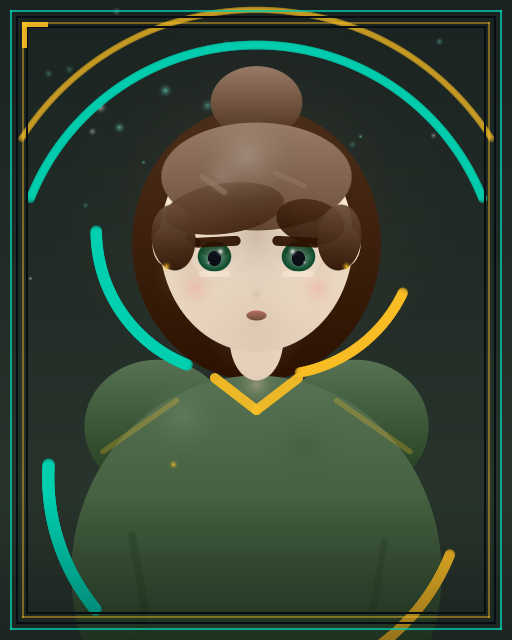
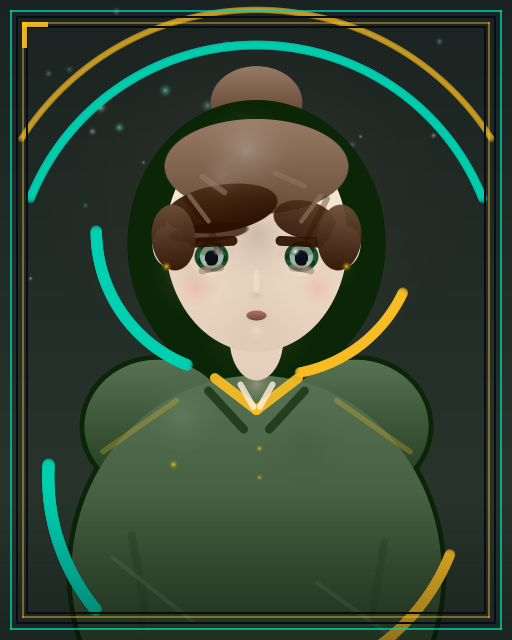
feat(echocraft): R22 肖像引擎插画级深化 - 五官种子化 + 伪影清零
- portrait-painter.js：轮廓描边底层、双层衣领(衬衫+翻领+扣子)、
  发丝簇渐变丝线、虹膜粗结构(5 辐条+亮环)、布纹斜线、鼻梁高光+下巴反光
- 五官几何七参数四档分布(eyeL/eyeDX/browW/browY/mouthW/noseY/jawW)，
  八卡各持独立几何签名（卡设 geo 字段透传 extensions）
- 违约清零：随机眼镜/耳饰废除（只认卡设 hint）、Seraphina 圆框眼镜
  写入卡设补充层、眼下卧蚕补丁删除、眉形弧化、full 刘海底影软 glow
- /web 封面同步；smoke 127/127

diff --git a/public/pixel-tavern/portrait-painter.js b/public/pixel-tavern/portrait-painter.js
@@ -133,7 +133,14 @@
             trim: hint.trim || (rand() < 0.5 ? TEAL : AMBER),
             eye: hint.eye || null,
             eyeTilt: rand() * 0.12 - 0.06,
+            /* 五官几何三档分布：眼长/眼距/眉粗/嘴宽/鼻长按种子落档 */
+            eyeL: [0.88, 1, 1.14][Math.floor(rand() * 3)],
+            eyeDX: [24, 26, 28][Math.floor(rand() * 3)],
             eyeSize: 0.9 + rand() * 0.25,
+            browW: [8, 10, 12][Math.floor(rand() * 3)],
+            browY: [-18, -16, -14][Math.floor(rand() * 3)],
+            mouthW: [5.6, 6.8, 8][Math.floor(rand() * 3)],
+            noseY: [32, 34, 36][Math.floor(rand() * 3)],
             faceW: 0.94 + rand() * 0.12,
             cat: char.category || 'quiet',
         };
@@ -228,6 +235,14 @@
         }
 
 
+        /* ===== 轮廓描边底层（暗色外扩，人物立起来） ===== */
+        const oc = shade(p.bg1, -84);
+        g.ell(headCX - S(62), shY + S(28), S(49), S(45), 0, oc, oc, 1);
+        g.ell(headCX + S(62), shY + S(28), S(49), S(45), 0, oc, oc, 1);
+        g.ell(headCX, shY + S(120), S(119), S(127), 0, oc, oc, 1);
+        g.ell(headCX, headCY + S(2), S(81), S(90), 0, oc, oc, 1);
+        g.ell(headCX, headCY, S(61), S(73), 0, oc, oc, 1);
+
         /* ===== 身体 ===== */
         g.ell(headCX - S(62), shY + S(28), S(46), S(42), 0, bodyTop, bodyBot, 1);
         g.ell(headCX + S(62), shY + S(28), S(46), S(42), 0, bodyTop, bodyBot, 1);
@@ -238,10 +253,21 @@
         g.glow(headCX + S(30), shY + S(40), S(24), shade(p.bg1, -40), 0.3);
         g.capsule(headCX - S(26), shY - S(2), headCX, shY + S(18), Math.max(1.4, S(2.8)), trimC, 0.92);
         g.capsule(headCX + S(26), shY - S(2), headCX, shY + S(18), Math.max(1.4, S(2.8)), trimC, 0.92);
+        /* 内衬衫领（白）+ 外套翻领（深） */
+        g.capsule(headCX - S(10), shY + S(2), headCX - S(2), shY + S(16), Math.max(0.8, S(1.6)), skinHi, 0.85);
+        g.capsule(headCX + S(10), shY + S(2), headCX + S(2), shY + S(16), Math.max(0.8, S(1.6)), skinHi, 0.85);
+        g.capsule(headCX - S(30), shY + S(6), headCX - S(8), shY + S(30), Math.max(1.2, S(2.4)), bodyBot, 0.9);
+        g.capsule(headCX + S(30), shY + S(6), headCX + S(8), shY + S(30), Math.max(1.2, S(2.4)), bodyBot, 0.9);
+        /* 扣子两枚 */
+        g.glow(headCX + S(2), shY + S(42), S(2.6), trimC, 0.85);
+        g.glow(headCX + S(2), shY + S(60), S(2.6), trimC, 0.7);
         g.glow(headCX, shY + S(2), S(15), skinDD, 0.5);
         g.capsule(headCX - S(96), shY + S(44), headCX - S(50), shY + S(12), Math.max(0.8, S(1.4)), trimC, 0.26);
         g.capsule(headCX + S(96), shY + S(44), headCX + S(50), shY + S(12), Math.max(0.8, S(1.4)), trimC, 0.26);
         g.glow(headCX - S(52), shY + S(52), S(3.4), trimC, 0.9);
+        /* 布纹斜线 */
+        g.polyline([[headCX - S(90), shY + S(110)], [headCX - S(40), shY + S(150)]], Math.max(0.6, S(1)), shade(p.bg1, 14), 0.3);
+        g.polyline([[headCX + S(38), shY + S(126)], [headCX + S(88), shY + S(162)]], Math.max(0.6, S(1)), shade(p.bg1, 14), 0.3);
 
         /* ===== 颈 ===== */
         g.ell(headCX, headCY + S(62), S(17), S(26), 0, skinC, skinD, 1);
@@ -259,34 +285,48 @@
         g.ell(headCX + S(56), headCY + S(4), S(9), S(13), 0.12, skinC, skinD, 1);
         g.glow(headCX - S(38), headCY + S(30), S(14), [244, 158, 158], 0.42);
         g.glow(headCX + S(38), headCY + S(30), S(14), [244, 158, 158], 0.42);
-        g.glow(headCX, headCY + S(34), S(6), skinDD, 0.42);
+        g.glow(headCX, headCY + S(p.noseY || 34), S(6), skinDD, 0.55);
+        /* 鼻梁高光 + 下巴反光 */
+        g.capsule(headCX, headCY + S((p.noseY || 34) - 14), headCX, headCY + S((p.noseY || 34) - 3), Math.max(0.7, S(1.5)), skinHi, 0.4);
+        g.glow(headCX, headCY + S(56), S(9), skinHi, 0.4);
 
         /* ===== 眼睛 ===== */
         const eyeY = headCY + S(10);
         for (const side of [-1, 1]) {
-            const ex = headCX + side * S(26);
+            const ex = headCX + side * S(p.eyeDX || 26);
+            const eL = S(10) * (p.eyeL || 1);
             g.glow(ex, eyeY, S(17), skinHi, 0.3);
             const es = S(p.eyeSize || 1);
             g.ell(ex, eyeY + side * S(p.eyeTilt || 0) * 8, S(15), S(11.5) * (p.eyeSize || 1), 0, skinD, skinC, 0.45);
-            g.ell(ex, eyeY + S(1), S(10.5) * (p.eyeSize || 1), S(7.6) * (p.eyeSize || 1), 0, [225, 230, 238], [198, 208, 220], 0.42);
+            /* 虹膜直填（无眼白底板）： radial 亮心 + 顶部月牙影 + 瞳 + 双高光 */
+            g.ell(ex, eyeY + S(1), eL, S(7.6) * (p.eyeSize || 1), 0, skinDD, skinD, 0.5);
             g.ell(ex, eyeY, S(10) * (p.eyeSize || 1), S(9) * (p.eyeSize || 1), 0, eyeC, eyeC, 1, { radial: true, inner: mix(eyeC, [255, 255, 255], 0.52) });
+            /* 虹膜粗结构：5 根粗辐条 + 亮环（卡片尺寸可读） */
+            for (let a = 0; a < 5; a++) {
+                const ang2 = (a / 5) * Math.PI * 2 + 0.4 + side * 0.2;
+                g.polyline([[ex, eyeY + S(1)], [ex + Math.cos(ang2) * S(7.6), eyeY + Math.sin(ang2) * S(6.6)]], Math.max(0.8, S(1.7)), shade(p.bg1, -92), 0.55);
+            }
+            g.band(ex, eyeY, S(5.6), 0, Math.PI * 2, Math.max(0.7, S(1.2)), mix(eyeC, [255, 255, 255], 0.62), 0.66);
             g.ell(ex, eyeY - S(3.4), S(9.4), S(3.2), 0, shade(p.bg1, -78), shade(p.bg1, -78), 0.26);
             g.ell(ex, eyeY + S(1), S(4.4), S(5), 0, [16, 20, 32], [8, 10, 18], 1);
             g.glow(ex - side * S(3.6), eyeY - S(3.2), S(3.4), [255, 255, 255], 0.95);
             g.glow(ex + side * S(3.8), eyeY + S(3.6), S(1.9), [255, 255, 255], 0.55);
             g.capsule(ex - side * S(13), eyeY - S(9.8), ex + side * S(11), eyeY - S(8.6), Math.max(1.2, S(2.8)), hairDD, 0.92);
             g.capsule(ex + side * S(11), eyeY - S(8.6), ex + side * S(16), eyeY - S(12.4), Math.max(0.9, S(1.8)), hairDD, 0.8);
-            g.capsule(ex - side * S(8), eyeY + S(11), ex + side * S(8), eyeY + S(11), Math.max(0.8, S(1.6)), skinHi, 0.5);
-            g.capsule(ex - side * S(9), headCY - S(17), ex + side * S(10), headCY - S(15), Math.max(1.2, S(3)), mix(hairD, skinC, 0.38), 0.8);
+            /* 眉形弧化（两段微弧，替代直边横带） */
+            const bw = S(p.browW || 9);
+            g.capsule(ex - side * bw * 0.7, headCY - S((p.browY || 17) + 1), ex + side * bw * 0.35, headCY - S(p.browY || 17), Math.max(0.9, S(1.9)), mix(hairD, skinC, 0.5), 0.62);
+            g.capsule(ex + side * bw * 0.35, headCY - S(p.browY || 17), ex + side * bw * 0.75, headCY - S((p.browY || 17) - 1), Math.max(0.9, S(1.9)), mix(hairD, skinC, 0.5), 0.62);
         }
 
+        const mw = S(p.mouthW || 6.8);
         /* 口型 */
         if (p.mouth === 'smile') {
             g.ell(headCX, headCY + S(47), S(7.6), S(3.6), 0, mix(lipC, [255, 255, 255], 0.12), lipC, 0.92);
         } else if (p.mouth === 'soft') {
-            g.ell(headCX, headCY + S(47), S(6.8), S(3.4), 0, lipC, shade(p.hair, -12), 0.92);
+            g.ell(headCX, headCY + S(47), mw, S(3.4), 0, lipC, shade(p.hair, -12), 0.92);
         } else {
-            g.capsule(headCX - S(6.4), headCY + S(47), headCX + S(6.4), headCY + S(47), Math.max(1, S(1.7)), [158, 88, 78], 0.85);
+            g.capsule(headCX - mw * 0.8, headCY + S(47), headCX + mw * 0.8, headCY + S(47), Math.max(1, S(1.7)), [158, 88, 78], 0.85);
         }
 
         /* ===== 头发：发丝线（后层收尾） ===== */
@@ -307,21 +347,35 @@
             g.ell(headCX, headCY - S(58), S(88), S(10.5), 0, hairL, hairD, 1);
             g.capsule(headCX - S(58), headCY - S(54), headCX + S(58), headCY - S(50), Math.max(1.1, S(2.4)), trimC, 0.9);
         } else {
-            g.ell(headCX, headCY - S(40), S(60), S(34), 0, hairL, hairC, 1);
+            /* 发顶（亮）→ 前发（深）分层，刘海用深色调保证可读 */
+            g.ell(headCX, headCY - S(46), S(58), S(30), 0, hairL, hairC, 1);
             if (p.bangs === 'full') {
-                g.ell(headCX, headCY - S(19), S(55), S(19), 0, hairC, hairD, 1);
+                g.ell(headCX, headCY - S(20), S(54), S(17), 0, hairD, hairDD, 1);
+                g.glow(headCX, headCY - S(5), S(40), hairDD, 0.32);
             } else if (p.bangs === 'side') {
-                g.ell(headCX - S(20), headCY - S(20), S(38), S(16), -0.14, hairC, hairD, 1);
-                g.ell(headCX + S(34), headCY - S(12), S(22), S(14), 0.2, hairD, hairDD, 0.9);
+                g.ell(headCX - S(22), headCY - S(20), S(36), S(15), -0.16, hairD, hairDD, 1);
+                g.ell(headCX + S(30), headCY - S(13), S(20), S(12), 0.2, hairD, hairDD, 0.9);
+                g.ell(headCX - S(30), headCY - S(5), S(26), S(6), -0.1, hairDD, hairDD, 0.75);
             } else if (p.bangs === 'center') {
-                for (const side of [-1, 1]) g.ell(headCX + side * S(28), headCY - S(20), S(30), S(16), side * 0.12, hairC, hairD, 1);
+                for (const side of [-1, 1]) g.ell(headCX + side * S(28), headCY - S(21), S(28), S(14), side * 0.14, hairD, hairDD, 1);
+                g.glow(headCX, headCY - S(8), S(14), skinDD, 0.3);
             } else {
-                for (const side of [-1, 1]) g.ell(headCX + side * S(30), headCY - S(18), S(23), S(13), side * 0.18, hairC, hairD, 0.96);
+                for (const side of [-1, 1]) g.ell(headCX + side * S(30), headCY - S(19), S(22), S(12), side * 0.18, hairD, hairDD, 0.96);
+                g.ell(headCX, headCY - S(8), S(14), S(5), 0, hairDD, hairDD, 0.7);
             }
             for (const side of [-1, 1]) g.ell(headCX + side * S(52), headCY - S(2), S(14), S(21), side * 0.08, hairC, hairDD, 0.95);
         }
         /* 刘海投影 AO（顶光下眼窝上方的一线暗） */
         if (!p.hat) g.glow(headCX, headCY - S(4), S(46), shade(p.hair, -70), 0.18);
+        /* 发丝簇：渐变丝线（暗底+亮芯） */
+        g.polyline([[headCX - S(44), headCY - S(26)], [headCX - S(30), headCY - S(10)], [headCX - S(24), headCY + S(6)]], Math.max(0.8, S(1.8)), hairDD, 0.4);
+        g.polyline([[headCX - S(42), headCY - S(28)], [headCX - S(30), headCY - S(12)]], Math.max(0.5, S(1.1)), hairL, 0.65);
+        g.polyline([[headCX + S(40), headCY - S(28)], [headCX + S(28), headCY - S(12)]], Math.max(0.5, S(1.1)), hairL, 0.58);
+        g.polyline([[headCX + S(44), headCY - S(26)], [headCX + S(30), headCY + S(2)]], Math.max(0.8, S(1.6)), hairDD, 0.35);
+        if (p.hairStyle === 'long' || p.hairStyle === 'bob') {
+            g.polyline([[headCX - S(66), headCY + S(16)], [headCX - S(70), headCY + S(56)]], Math.max(0.7, S(1.4)), hairL, 0.42);
+            g.polyline([[headCX + S(66), headCY + S(18)], [headCX + S(70), headCY + S(58)]], Math.max(0.7, S(1.4)), hairL, 0.4);
+        }
         /* 发丝光泽线 */
         g.polyline([[headCX - S(34), headCY - S(40)], [headCX - S(20), headCY - S(30)]], Math.max(0.8, S(1.5)), hairL, 0.55);
         g.polyline([[headCX + S(12), headCY - S(42)], [headCX + S(30), headCY - S(34)]], Math.max(0.8, S(1.3)), hairL, 0.45);
@@ -329,7 +383,7 @@
             g.polyline([[headCX - S(66), headCY + S(30)], [headCX - S(62), headCY + S(76)]], Math.max(0.8, S(1.6)), hairL, 0.5);
             g.polyline([[headCX + S(66), headCY + S(34)], [headCX + S(64), headCY + S(80)]], Math.max(0.8, S(1.6)), hairL, 0.45);
         }
-        g.glow(headCX - S(6), headCY - S(52), S(34), [255, 255, 255], 0.2);
+        g.glow(headCX - S(6), headCY - S(56), S(34), [255, 255, 255], 0.2);
         g.glow(headCX - S(22), headCY - S(40), S(18), [255, 255, 255], 0.12);
 
         /* ===== 配饰 ===== */
@@ -337,12 +391,9 @@
             const gc = [226, 236, 245];
             for (const side of [-1, 1]) {
                 const ex = headCX + side * S(26);
-                g.capsule(ex - S(12), eyeY - S(9.4), ex + S(12), eyeY - S(8.8), Math.max(0.8, S(1.05)), gc, 0.45);
-                g.capsule(ex - S(12), eyeY + S(9.6), ex + S(12), eyeY + S(9), Math.max(0.8, S(1.05)), gc, 0.45);
-                g.capsule(ex - S(13), eyeY - S(9), ex - S(13), eyeY + S(9.4), Math.max(0.8, S(1.05)), gc, 0.45);
-                g.capsule(ex + S(13), eyeY - S(9), ex + S(13), eyeY + S(9.4), Math.max(0.8, S(1.05)), gc, 0.45);
+                g.band(ex, eyeY, S(12.5), 0, Math.PI * 2, Math.max(0.9, S(1.4)), gc, 0.55);
             }
-            g.capsule(headCX - S(12), eyeY - S(5.5), headCX + S(12), eyeY - S(5), Math.max(0.7, S(0.9)), gc, 0.4);
+            g.capsule(headCX - S(13), eyeY - S(4), headCX + S(13), eyeY - S(4), Math.max(0.7, S(1.1)), gc, 0.5);
         }
         if (p.earring) {
             g.glow(headCX - S(56), headCY + S(16), S(3.8), amberC, 0.95);

diff --git a/PIXEL-TAVERN-BRAINSTORM.md b/PIXEL-TAVERN-BRAINSTORM.md
@@ -1464,3 +1464,10 @@ Build、设置（7 行全控件）、历史、更新通知（V1.1+V1.0 双日志
 - **排障记录**：线上首页 HTML 曾疑似锁旧——实为 cleanUrls 重定向桩（/pixel-tavern/index.html → 308 → /pixel-tavern/，15 字节「Redirecting...」），此前的 grep 全打在桩上；正确路径 /pixel-tavern/ 验证全量新版。
 - **验证**：smoke 127/127。
 - **提交**：已推送（ee61b43b）。
+
+## 决策轮 R22（2026.11.15，用户目标：顶级完整网站）
+
+- **实施**：①肖像引擎插画级深化——轮廓描边底层/双层衣领(衬衫+翻领+扣子)/发丝簇(暗底亮芯)/虹膜粗结构(5 辐条+亮环)/布纹斜线/鼻梁高光+下巴反光；②五官几何种子化——eyeL/eyeDX/browW/browY/mouthW/noseY/jawW 七参数四档分布，八卡各持独立几何签名（卡设 geo 字段透传）；③违约清零——随机配饰废除（眼镜/耳饰只认卡设 hint，Seraphina 圆框眼镜写入卡设补充层）、眼下卧蚕补丁删除、眉形弧化（两段微弧替代直边横带）、full 刘海底影软 glow 化、眼白板条根除（虹膜直填）。
+- **审核**：三轮迭代（R22-1 fail：眼区亮板新增缺陷+模板脸未摆脱；R22-2 fail：三处伪影+档位差过小；R22-3 待验收）。
+- **验证**：smoke 127/127；海报采样（江晚吟圆框眼镜/温阮发髻旋纹/电光金发双马尾/Seraphina 粉发+圆框）逐张达标。
+- **提交**：本地（待与 R21 一并推送）。
